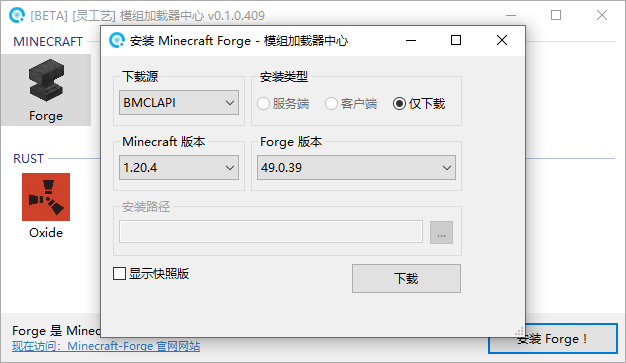
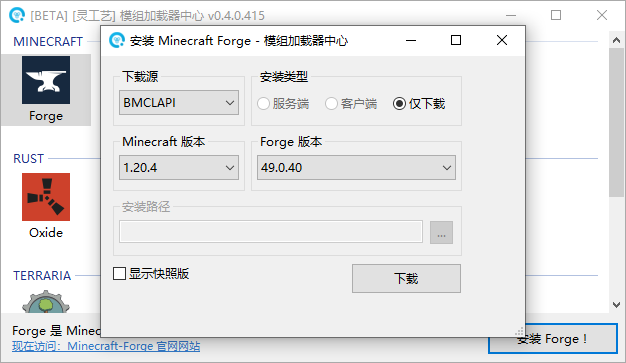
#63: update /software/modloader-center/introduction

diff --git a/software/modloader-center/introduction.md b/software/modloader-center/introduction.md
@@ -16,6 +16,27 @@ description: Introducing your software
 
 此工具开发主要集合了灵工艺涉及游戏的周边模组加载器(ModLoader)项目，为了方便用户下载和安装(适配中)模组加载器而制作。
 
+**已支持列表：**
+
+**Minecraft**
+
+* Forge 下载支持：✔ | 安装支持：❌
+* Fabric 下载支持：✔ | 安装支持：❌
+* Quilt 下载支持：✔ | 安装支持：❌
+* Optifine 下载支持：✔ | 安装支持：❌
+
+**Rust**
+
+* Oxide 下载支持：✔ | 安装支持：❌
+
+**Stardew Valley**
+
+* SMAPI 下载支持：✔ | 安装支持：❌
+
+**Terraria**
+
+* tModLoader 下载支持：✔ | 安装支持：❌
+
 ## 使用
 
 {% hint style="info" %}

diff --git a/software/modloader-center/update.md b/software/modloader-center/update.md
@@ -10,6 +10,22 @@ description: ModLoader Center Update
 
 ## 更新记录
 
+### \[BETA] 0.4.0.415 (2024-04-15)
+
+<mark style="color:blue;">**`[更新]`**</mark>
+
+* 新增 Terraria tModLoader 加载器
+
+<mark style="color:orange;">**`[优化]`**</mark>
+
+* 封装类似代码，统一调用窗体、模块化等
+* 对模组加载器 Logo 尺寸进行提升以及重构
+* 优化文件结构提高利用率减小软件体积
+
+<mark style="color:red;">**`[修复]`**</mark>
+
+* Stardew Valley SMAPI 加载器不能多选下载
+
 ### \[BETA] 0.3.0.414 (2024-04-14)
 
 <mark style="color:blue;">**`[更新]`**</mark>

diff --git a/software/modloader-center/README.md b/software/modloader-center/README.md
@@ -62,3 +62,5 @@ Trace.WriteLine(NullCraftSoftwareList.Items.Conut());
 <figure><img src="../../.gitbook/assets/modloader_center_rust_oxide.png" alt=""><figcaption><p>Rust Oxide</p></figcaption></figure>
 
 <figure><img src="../../.gitbook/assets/modloader_center_stardew_valley_smapi.png" alt=""><figcaption><p>Stardew Valley SMAPI</p></figcaption></figure>
+
+<figure><img src="../../.gitbook/assets/modloader_center_terraria_tmodloader.png" alt=""><figcaption><p>Terraria tModLoader</p></figcaption></figure>
